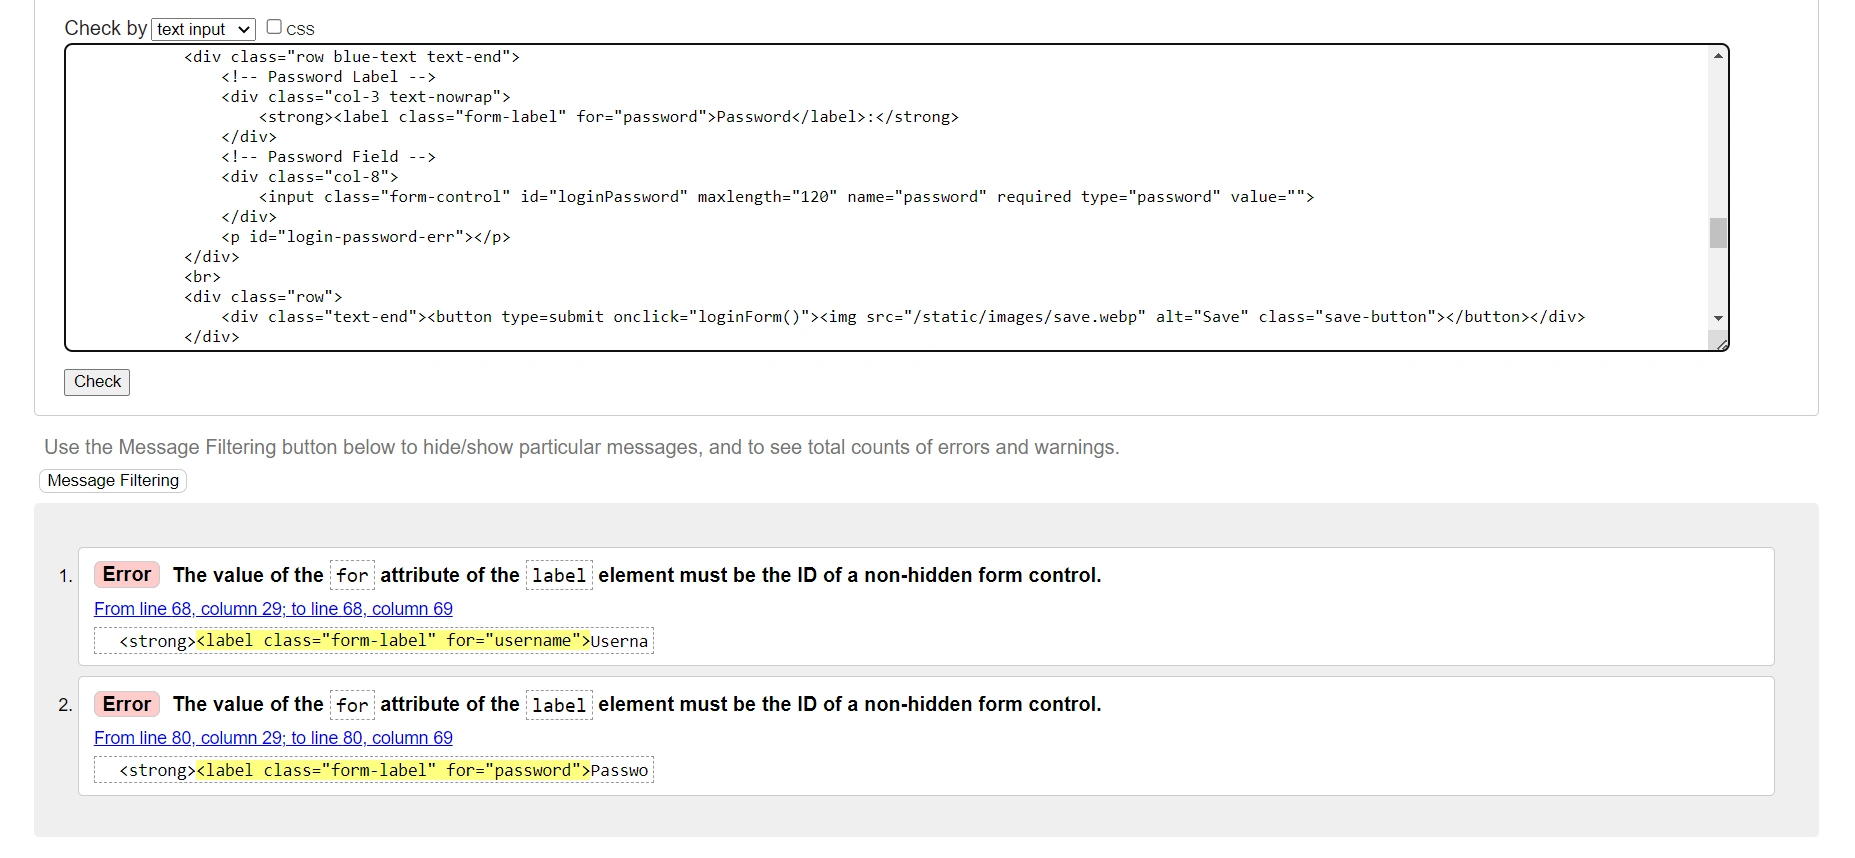
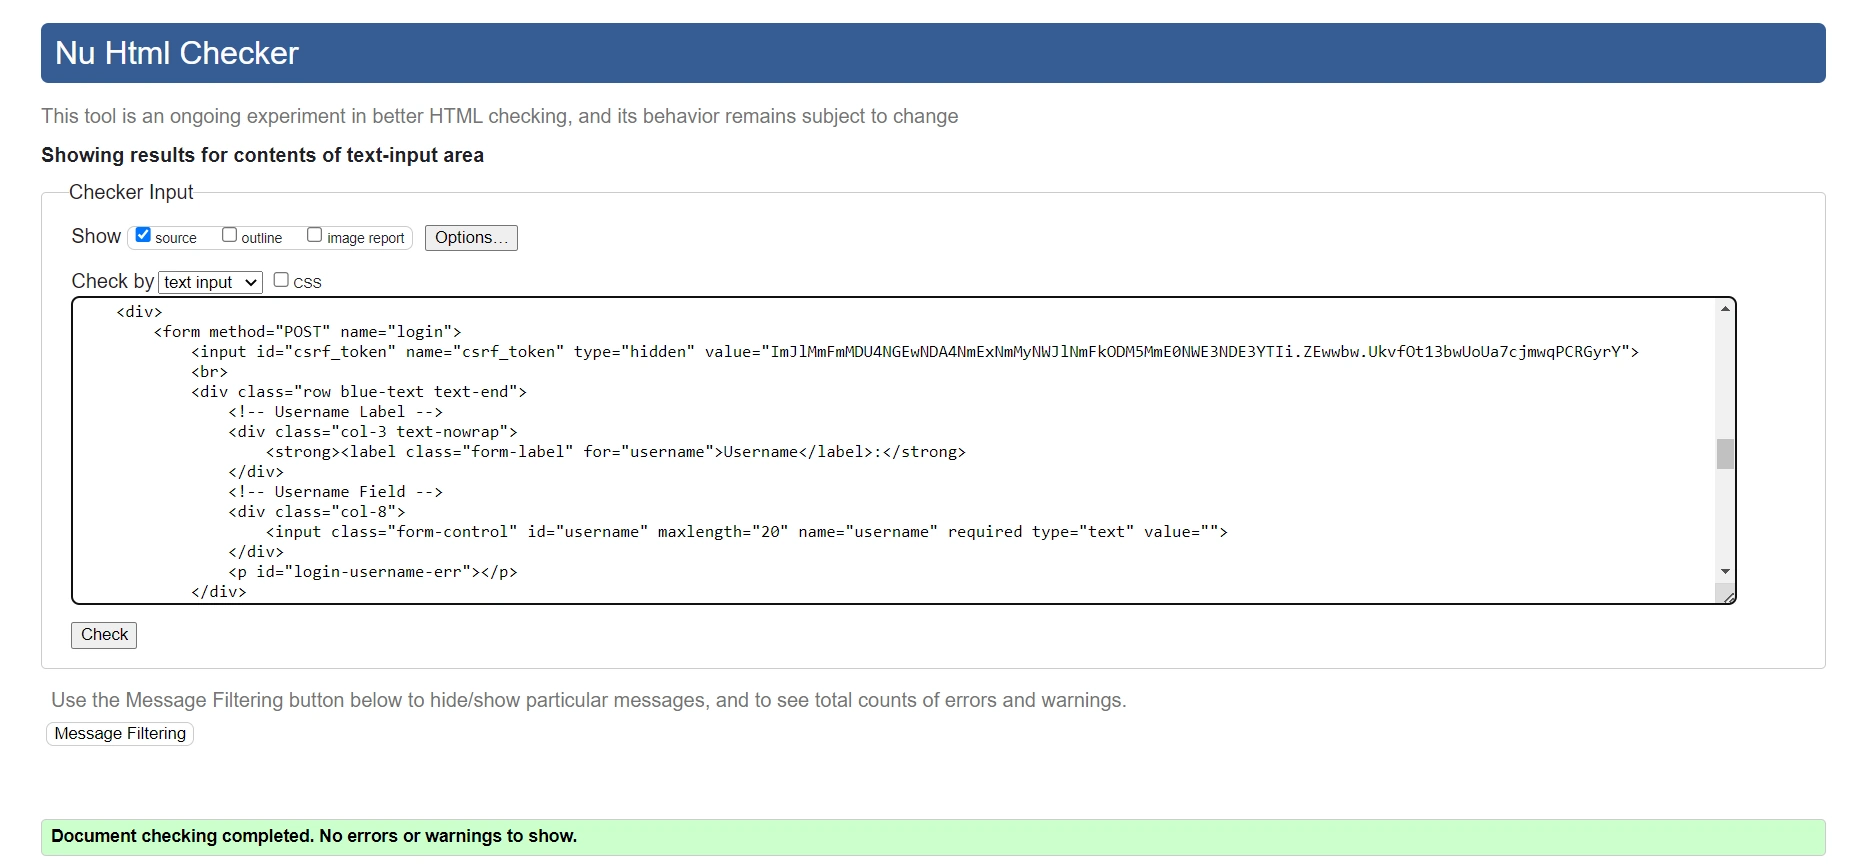
Confirm validation fix for login page

diff --git a/README.md b/README.md
@@ -560,9 +560,6 @@ The [W3C HTML Validator](https://validator.w3.org/) was used to validate the HTM
 * Results from the [index](plantplanner/static/images/readme/index_val.webp) page check: user not logged in.
 * Results from the [index](plantplanner/static/images/readme/index_logged_in_val.webp) page check: user logged in.
 * Results from the [login](plantplanner/static/images/readme/login_val.webp) page check.
-
-   The errors shown derive purely from the jinja code.
-
 * Results from the [plant](plantplanner/static/images/readme/plant_val.webp) page check.
 * Results from the [update](#) page check.
 
